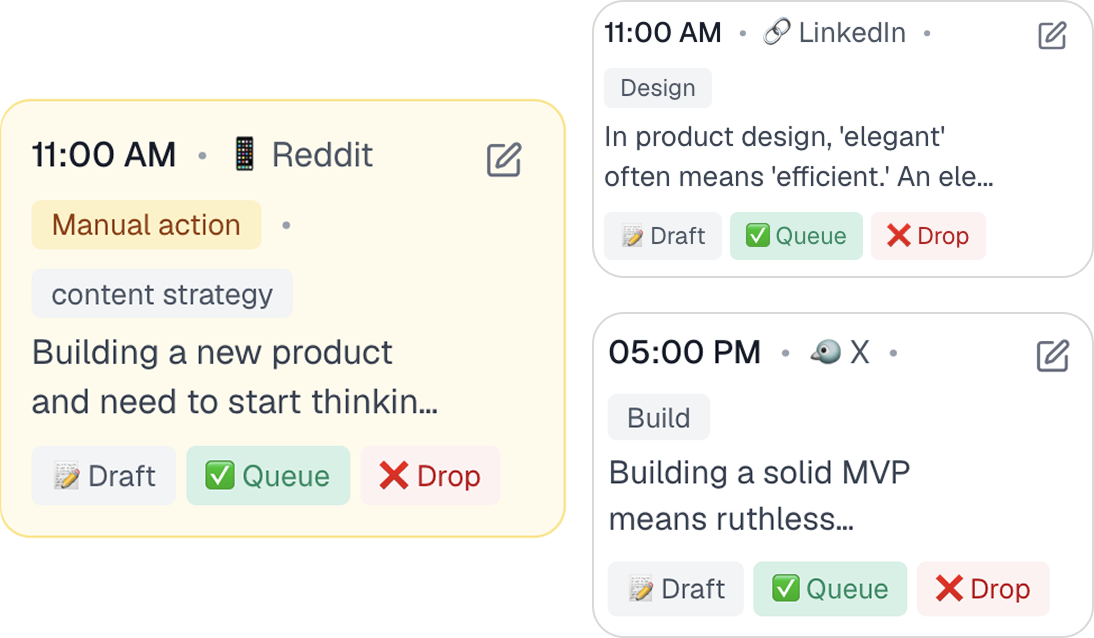
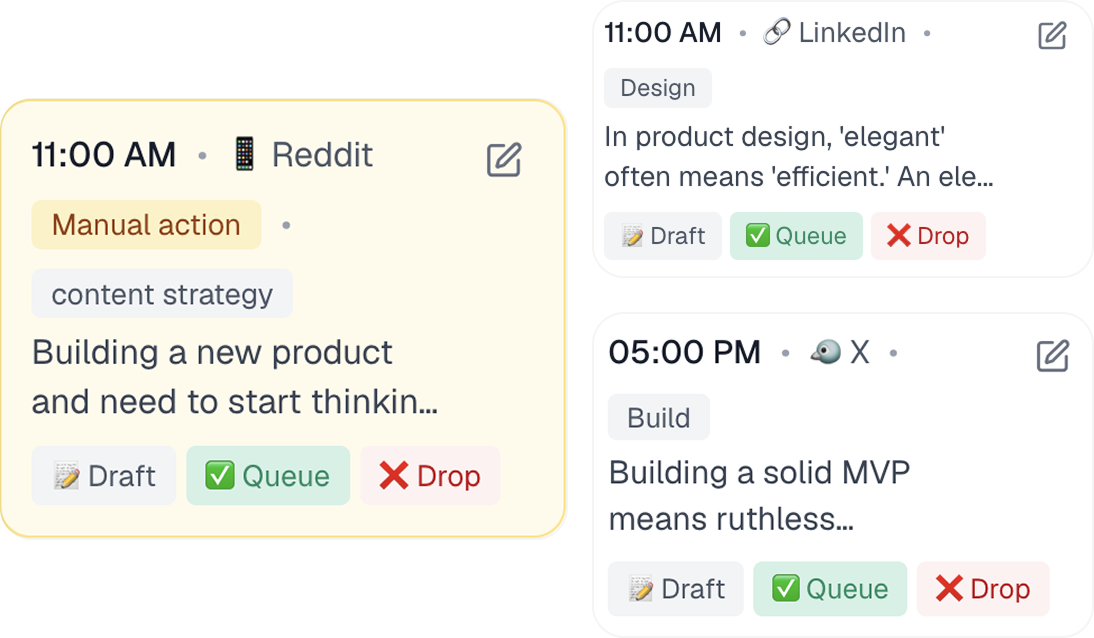
Added new images for sections.

diff --git a/components/Sections.tsx b/components/Sections.tsx
@@ -2,7 +2,7 @@ import Image from 'next/image';
 
 const sections = [
   { title: "Tell interesting stories!", description: "Zero blank-page syndrome. Get a full batch of channel-tailored posts built for technical builders and founders.", image: "/screenshots/ai-gen@2x.png" },
-  { title: "The Context Engine", description: "Drop in your website link, and our AI instantly maps your product description and ICP.", image: "/screenshots/context.png" },
+  { title: "The Context Engine", description: "Drop in your website link, and our AI instantly maps your product description and ICP.", image: "/screenshots/context@2x.png" },
   {
     title: "AEO Audit",
     description: "See exactly how AI interprets your brand with a live AEO audit that highlights the gaps before a single demo request.",
@@ -11,7 +11,7 @@ const sections = [
   },
   { title: "The Calendar", description: "Total control. Tweak copy inline, swap media assets, or build custom posts from scratch with a frictionless UI.", image: "/screenshots/calendar.png" },
   { title: "Hands-Free Auto-Sender", description: "Set it and forget it. Reliable, automated publishing across platforms so your distribution runs while you code.", image: "/screenshots/scheduler@2x.png" },
-  // { title: "The Analytics Loop", description: "Real feedback loops to see what resonates and continuously sharpen your GTM motion.", image: "/screenshots/analytics.png" },
+  { title: "The Analytics Loop", description: "Real feedback loops to see what resonates and continuously sharpen your GTM motion.", image: "/screenshots/analytics@2x.png" },
 ];
 
 export default function SplitSections() {
@@ -34,7 +34,7 @@ export default function SplitSections() {
               </div>
 
               {/* Screenshot / Visual Card Column */}
-              <div className={`w-full bg[#eefeee]  rounded-2xl p-2 shadow2xl overflow-hidden ${isReversed ? 'lg:order-1' : 'lg:order-2'} ${isAeoRow ? '' : ''}`}>
+              <div className={`w-full bg-[#eefeee] md:py-[40px] rounded-2xl p-2 md:p-12 shadow-xs overflow-hidden ${isReversed ? 'lg:order-1' : 'lg:order-2'} ${isAeoRow ? '' : ''}`}>
                 {section.preview === 'audit' ? (
                   <div className="rounded-[18px] border-[1.5px] border-[#f0f0f0] bg-[#1c1f23] p-0 font-mono text-[#f4f4f4] shadow-[0_0_0_1px_rgba(255,255,255,0.1)] text-[11px] sm:text-[12px]">
                     <div className="border-b border-[#f0f0f0] px-5 py-3 font-medium tracking-tight text-[#f4f4f4]">

diff --git a/app/page.tsx b/app/page.tsx
@@ -121,7 +121,7 @@ export default function Hero() {
         <div className="max-w-6xl mx-auto px-4 py-4">
           <div className="flex items-center justify-between">
             <span className="text-md font-extrabold text-gray-950" style={{ fontFamily: 'var("Plus Jakarta Sans")' }}>
-              <Image src="/dispatchOS-logo.svg" alt="DispatchOS Logo" width={142} height={32} className="inline-block mr-2" />
+              <Image src="/dispatchOS-logo.svg" alt="DispatchOS Logo" width={132} height={32} className="inline-block mr-2" />
             </span>
 
             <nav className="hidden md:flex items-center gap-6">
